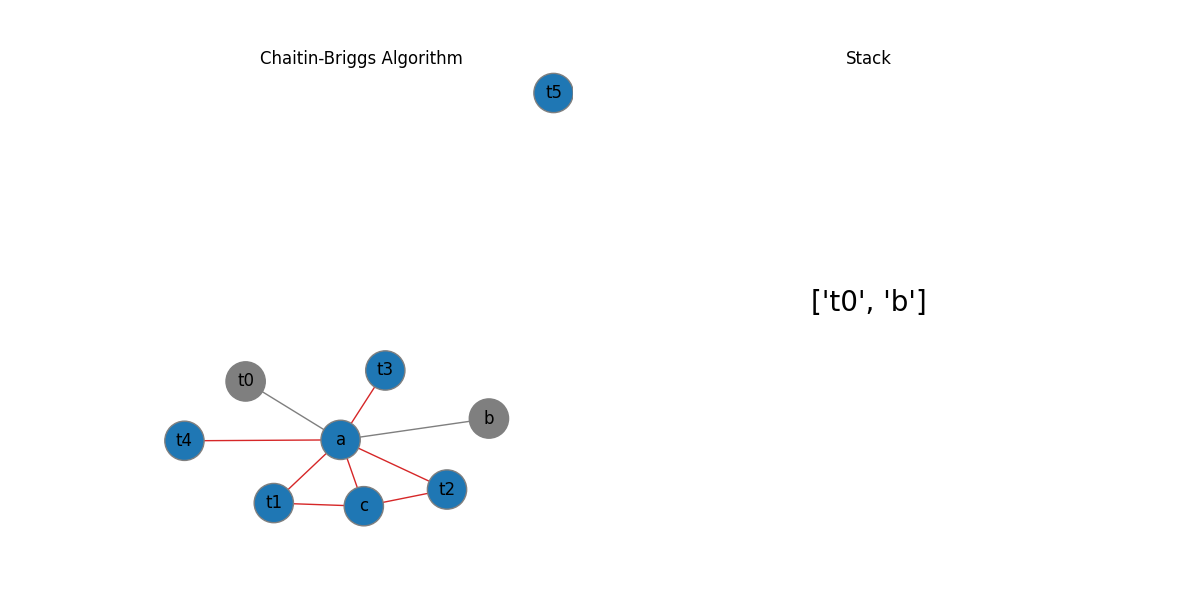
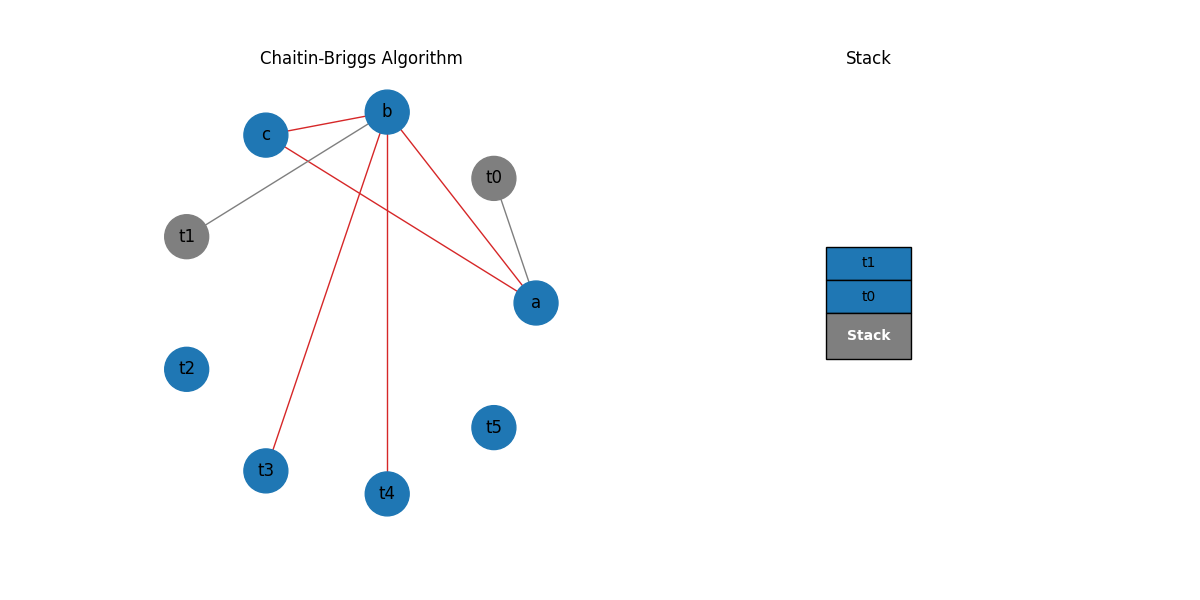
Added Gif generation
- Graph is displayed in a circular layout
- Issues in the stack displayed. (overflows)

diff --git a/Chaitin-Briggs/liveness.py b/Chaitin-Briggs/liveness.py
@@ -2,9 +2,22 @@ import random
 import re
 import networkx as nx
 import matplotlib.pyplot as plt
+import numpy as np
+import pandas as pd
+from pandas.plotting import table 
 import copy
 
+Graph = nx.Graph()
+initial_nodes = []
+fixed_positions = {}
+nodes = []
+edges = []
+position = None
+img_count = 1
+
+
 def liveness(irfilename):
+    global Graph, nodes, edges, position, img_count, initial_nodes, fixed_positions
     f =  open(irfilename, "r")
     IR = f.read()
     IR = IR.strip().split("\n")
@@ -108,7 +121,7 @@ def liveness(irfilename):
                 else:
                     Out[j] = Out[j] | In[k-1]
 
-    Graph = nx.Graph()
+    
     Adj = {} 
 
     for block_number in range(no_of_blocks):
@@ -122,28 +135,33 @@ def liveness(irfilename):
         if node in Adj[node]:
             Adj[node].remove(node)
 
-
-    edges = []
-    nodes = []
-
     for node in Adj:
-        nodes.append(node)
+        if node not in nodes:
+            nodes.append(node)
         for neighbour in Adj[node]:
-            edges.append((node, neighbour))
+            if (node, neighbour) not in edges and (neighbour, node) not in edges:
+                edges.append((node, neighbour))
 
+    if not initial_nodes:
+        initial_nodes = nodes.copy()
+
+    Graph = nx.Graph()
     Graph.add_nodes_from(nodes)
     Graph.add_edges_from(edges)
-
-    options = {"edgecolors": "tab:gray", "node_size": 800, "alpha": 1}
+    fixed_nodes = initial_nodes.copy()
+    position = nx.circular_layout(Graph)
+    fixed_positions = {}
+    for node in fixed_nodes:
+        fixed_positions[node] = position[node]
+    options = {"edgecolors": "tab:gray", "node_size": 1000, "alpha": 1, "pos": position}
     
     # Draw graph with title 
     plt.figure(figsize=(7, 7))
     plt.title("Interference Graph")
-    position = nx.spring_layout(Graph)
-    nx.draw(Graph, pos=position, with_labels=True, **options)
-    plt.savefig("Chaitin-Briggs/interference_graph.png")
+    nx.draw(Graph, with_labels=True, **options)
+    plt.savefig("interference_graph.png")
 
-    return Graph, Adj, Def, Use, In, Out, Blocks, nodes, position
+    return Adj, Def, Use, In, Out, Blocks
 
 def correctIR_help(line_of_insert, lines):
     for line_no in range(len(lines)):
@@ -165,22 +183,38 @@ def correctIR(irfilename, inserts):
     f.close()
 
 def regalloc(irfilename, number_of_registers):
-    Graph, Adj, Def, Use, In, Out, Blocks, nodes, position = liveness(irfilename)
+    global Graph, position, nodes, edges, initial_nodes, fixed_positions
+    Adj, Def, Use, In, Out, Blocks = liveness(irfilename)
 
-    # Fade all nodes and edges
-    options = {"edgecolors": "tab:gray", "node_size": 800, "alpha": 1, "pos": position}
+    Graph = nx.Graph()
+    Graph.add_nodes_from(nodes)
+    Graph.add_edges_from(edges)
+    options = {"edgecolors": "tab:gray", "node_size": 1000, "alpha": 1, "pos": position}
     node_colors_array = ["tab:blue" for _ in range(len(nodes))]
     edge_colors = ["tab:red" for _ in range(len(Graph.edges()))]
     # Draw graph with title
-
     fig, (ax1, ax2) = plt.subplots(1, 2, figsize=(12, 6))
     ax1.set_title("Interference Graph")
-    nx.draw(Graph, with_labels=True, node_color=node_colors_array, edge_color=edge_colors, **options, ax=ax1)
+    try:
+        nx.draw(Graph, with_labels=True, node_color=node_colors_array, edge_color=edge_colors, **options, ax=ax1)
+    except:
+        # print the exact cause of the error
+        print("Error in graph coloring")
+        print("Adjacency list: ", Adj)
+        print("Def: ", Def)
+        print("Use: ", Use)
+        print("In: ", In)
+        print("Out: ", Out)
+        print("Blocks: ", Blocks)
+        print("Nodes: ", nodes)
+        print("Graph: ", Graph)
+        print("Position: ", position)
+
     ax2.set_title("Stack")
     ax2.set_xticks([])
     ax2.set_yticks([])
     ax2.axis('off')
-    plt.savefig("Chaitin-Briggs/interference_graph_fade.png")
+    plt.savefig("interference_graph_fade.png")
     
     # TODO: live_intervals = {}
 
@@ -189,7 +223,7 @@ def regalloc(irfilename, number_of_registers):
     stack = []
     Adj_copy = copy.deepcopy(Adj)
 
-    img_count = 1
+    global img_count
 
     removed = False
 
@@ -212,6 +246,11 @@ def regalloc(irfilename, number_of_registers):
                     if neighbour in Adj_copy:
                         Adj_copy[neighbour].remove(node)
                 Adj_copy.pop(node)
+
+                Graph = nx.Graph()
+                Graph.add_nodes_from(nodes)
+                Graph.add_edges_from(edges)
+
                 fig, (ax1, ax2) = plt.subplots(1, 2, figsize=(12, 6))
                 ax1.set_title("Chaitin-Briggs Algorithm")
                 ax2.set_title("Stack")
@@ -219,11 +258,45 @@ def regalloc(irfilename, number_of_registers):
                 ax2.set_yticks([])
                 ax2.axis('off')
 
-                nx.draw(Graph, with_labels=True, node_color=node_colors_array, edge_color=edge_colors, **options, ax=ax1)
+                options = {"node_size": 1000, "alpha": 1, "pos": position}
 
-                ax2.text(0.5, 0.5, str(list(reversed(stack))), horizontalalignment='center', verticalalignment='center', fontsize=20)
+                try:
+                    nx.draw(Graph, with_labels=True, node_color=node_colors_array, edge_color=edge_colors, **options, ax=ax1)
+                except:
+                    # print the exact cause of the error
+                    print("Error in graph coloring")
+                    print("Adjacency list: ", Adj)
+                    print("Def: ", Def)
+                    print("Use: ", Use)
+                    print("In: ", In)
+                    print("Out: ", Out)
+                    print("Blocks: ", Blocks)
+                    print("Nodes: ", nodes)
+                    print("Graph: ", Graph)
+                    print("Position: ", position)
                 
-                plt.savefig("Chaitin-Briggs/images/" + str(img_count) + ".png")
+
+                # plot table in ax2 but upside down, with 'stack' at the bottom
+                table_data = [[node] for node in stack]
+                table_data.reverse()
+                table_data.append(['Stack'])
+                cell_colors = [['tab:blue'] for _ in range(len(stack))]
+                cell_colors.append(['tab:gray'])
+                # Plot table without column and row headers
+                table = ax2.table(cellText=table_data, cellColours=cell_colors, loc='center', cellLoc='center', colWidths=[0.2])
+                ax2.axis('off')
+                table.scale(1, 2)
+
+                stack_label_cell = table[(len(stack), 0)]
+                stack_label_cell.set_text_props(weight='bold')
+                stack_label_cell.set_height(0.1)
+                stack_label_cell.set_fontsize(12)
+                stack_label_cell.set_text_props(color='w')
+                stack_label_cell._set_text_position((0.5, 0.5))
+                                                             
+                plt.savefig("images/" + str(img_count) + ".png")
+                plt.close()
+                print(img_count)
                 img_count += 1
                 removed = True
 
@@ -264,6 +337,19 @@ def regalloc(irfilename, number_of_registers):
             print("Spilled")
             success = False
             failed_node = node
+            # Create an image saying that the graph cannot be colored and that the node 'node' has been spilled
+            
+            nodes.remove(node)
+            initial_nodes.remove(node)
+            tmp_stack.remove(node)
+            print("EDGE BEFORE: ", edges)
+            print("FAILED NODE: ", failed_node)
+            edge_copy = edges.copy()
+            for edge in edges:
+                if failed_node in edge:
+                    edge_copy.remove(edge)
+            edges = edge_copy
+            print("EDGE AFTER: ", edges)
             break
         
         New_Adj[node] = set()
@@ -273,6 +359,14 @@ def regalloc(irfilename, number_of_registers):
                 New_Adj[node].add(new_node)
                 New_Adj[new_node].add(node)
         
+        Graph = nx.Graph()
+        Graph.add_nodes_from(nodes)
+        print("nodes: ", nodes)
+        new_edges = edges.copy()
+        for edge in new_edges:
+            if failed_node in edge:
+                new_edges.remove(edge)
+        Graph.add_edges_from(new_edges)
         # increase alpha of the appended node and its edges
         color = node_colors[node]
         node_colors_array[nodes.index(node)] = color_map[color]
@@ -282,33 +376,54 @@ def regalloc(irfilename, number_of_registers):
             except:
                 edge_colors[list(Graph.edges()).index((neighbour, node))] = 'tab:gray'
         fig, (ax1, ax2) = plt.subplots(1, 2, figsize=(12, 6))
+        
         ax1.set_title("Chaitin-Briggs Algorithm")
         ax2.set_title("Stack")
-        ax2.set_xticks([])
-        ax2.set_yticks([])
-        ax2.axis('off')
 
-        nx.draw(Graph, with_labels=True, node_color=node_colors_array, edge_color=edge_colors, **options, ax=ax1)
+        try:
+            nx.draw(Graph, with_labels=True, node_color=node_colors_array, edge_color=edge_colors, **options, ax=ax1)
+        except:
+            # print the exact cause of the error
+            print("Error in graph coloring")
+            print("Adjacency list: ", Adj)
+            print("Def: ", Def)
+            print("Use: ", Use)
+            print("In: ", In)
+            print("Out: ", Out)
+            print("Blocks: ", Blocks)
+            print("Nodes: ", nodes)
+            print("Graph: ", Graph)
+            print("Position: ", position)
 
         tmp_stack.pop(0)
 
-        ax2.text(0.5, 0.5, str(tmp_stack), horizontalalignment='center', verticalalignment='center', fontsize=20)
+        # plot table in ax2 but upside down, with 'stack' at the bottom
+        table_data = [[node] for node in tmp_stack]
+        table_data.append(['Stack'])
+        cell_colors = [['tab:blue'] for _ in range(len(tmp_stack))]
+        cell_colors.append(['tab:gray'])
+        # Plot table without column and row headers
+        table = ax2.table(cellText=table_data, cellColours=cell_colors, loc='center', cellLoc='center', colWidths=[0.2])
+        ax2.axis('off')
+        table.scale(1, 2)
+
+        stack_label_cell = table[(len(tmp_stack), 0)]
+        stack_label_cell.set_text_props(weight='bold')
+        stack_label_cell.set_height(0.1)
+        stack_label_cell.set_fontsize(12)
+        stack_label_cell.set_text_props(color='w')
+        stack_label_cell._set_text_position((0.5, 0.5))
+
+        plt.savefig("images/" + str(img_count) + ".png")
+        plt.close()
         print(img_count)
-        plt.savefig("Chaitin-Briggs/images/" + str(img_count) + ".png")
         img_count += 1
 
     count = 0
     lineskip = 0
     if not success:
-        newir = irfilename.split(".")
-        if len(newir) == 2 and newir[1] == "ir":
-            #insert "changed" at 1
-            newir[1] = "changed"
-            newir.append("ir")
-        elif len(newir) == 1:
-            newir.append("changed")
-            newir.append("ir")
-        newir = ".".join(newir)
+        newir = irfilename
+        newir = newir + ".changed"
         f = open(irfilename, "r")
         f_new = open(newir, "w")
         lines = f.readlines()
@@ -359,9 +474,8 @@ def regalloc(irfilename, number_of_registers):
     return allocation, irfilename
 
 def rewriteIR(irfilename, allocation):
-    new_irfilename = irfilename.split(".")
-    new_irfilename[0] = new_irfilename[0] + "_regalloc"
-    new_irfilename = ".".join(new_irfilename)
+    new_irfilename = irfilename
+    new_irfilename = new_irfilename + ".regalloc"
 
     f_new = open(new_irfilename, "w")
     f = open(irfilename, "r")
@@ -399,15 +513,20 @@ import os
 def createGif():
     images_names = []
     images = []
-    for image in os.listdir("Chaitin-Briggs/images"):
+    for image in os.listdir("images"):
         images_names.append(image)
 
     images_names.sort(key=lambda f: int(''.join(filter(str.isdigit, f))))
     for image in images_names:
-        images.append(imageio.imread("Chaitin-Briggs/images/" + image))
-    imageio.mimsave('Chaitin-Briggs/Chaitin-Briggs.gif', images, duration=len(images)*100)
+        images.append(imageio.imread("images/" + image))
+    imageio.mimsave('Chaitin-Briggs.gif', images, duration=len(images)*20)
 
 def main():
+    global Graph
+
+    # REmove all images in the images folder
+    for image in os.listdir("images"):
+        os.remove("images/" + image)
     print(sys.argv)
     if len(sys.argv) < 2:
         print("Please provide the IR file as an argument")
